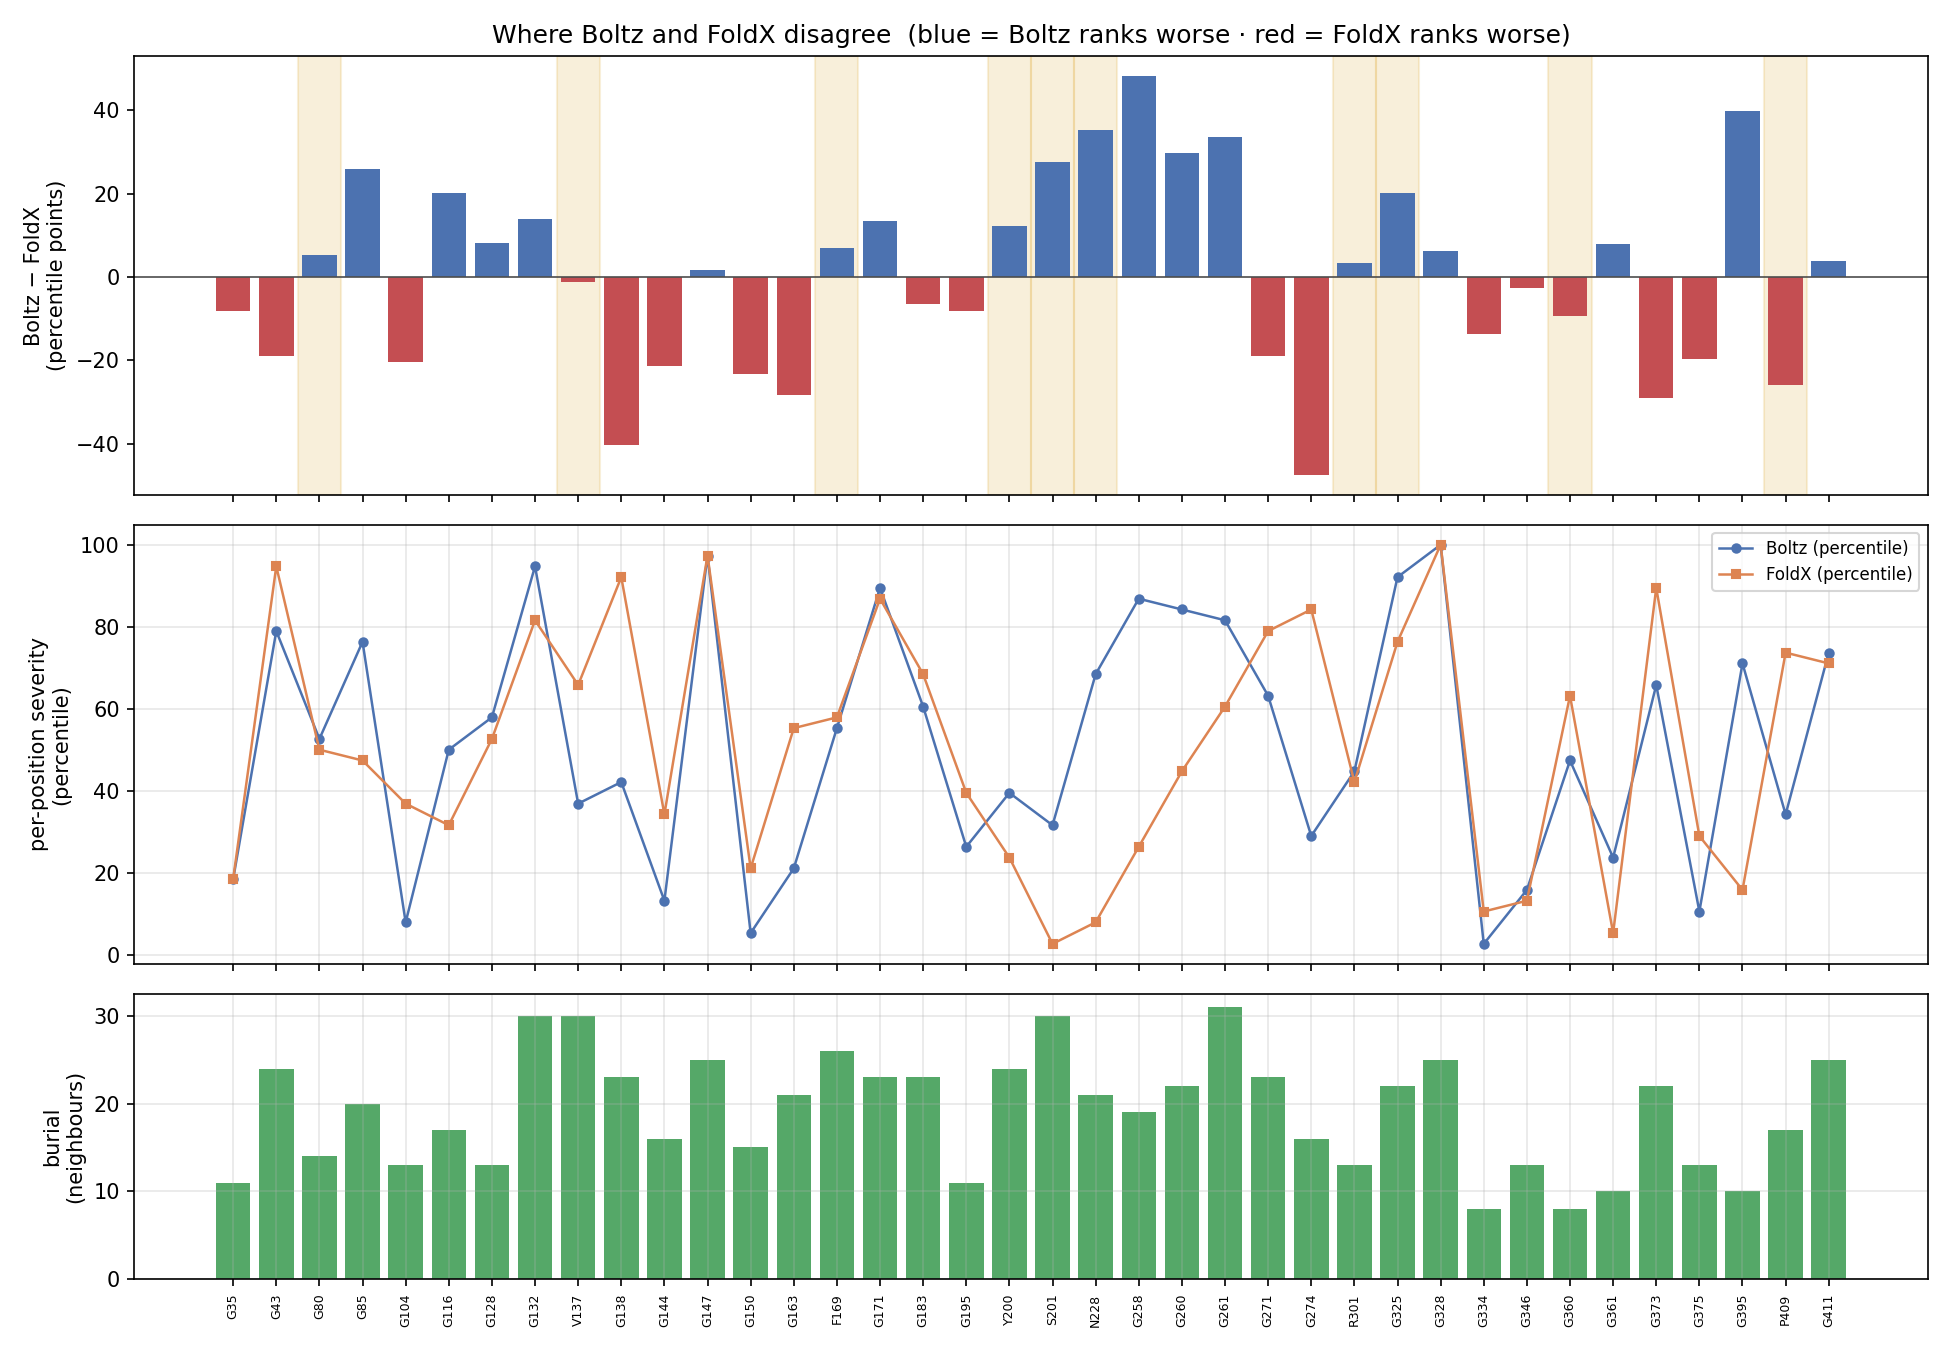
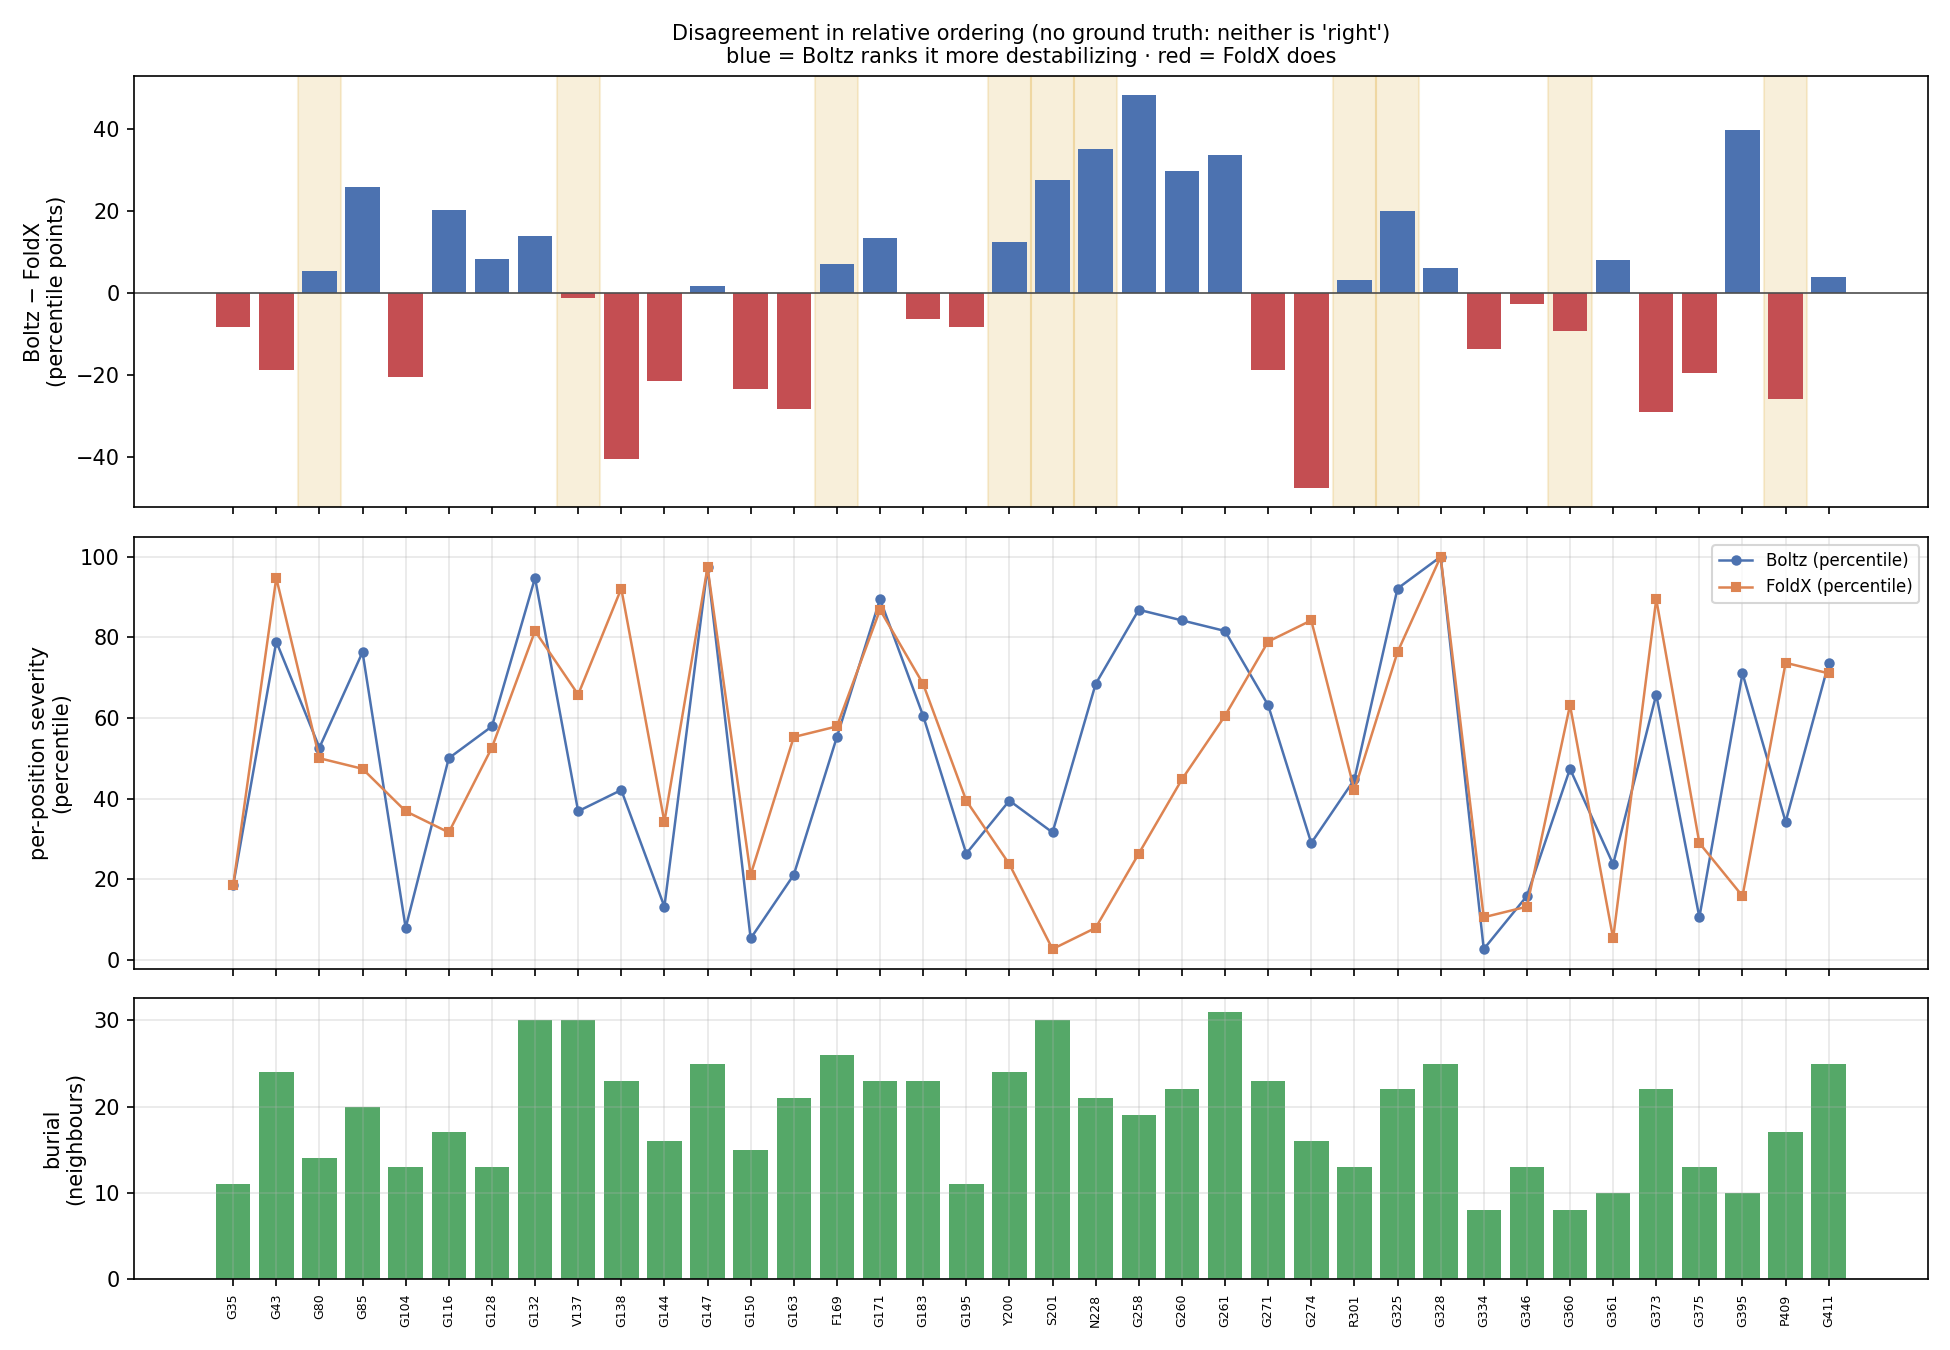
results/10: correct discrepancy wording — disagreement in ordering, not accuracy

diff --git a/results/10_gla_scan/map_discrepancy.py b/results/10_gla_scan/map_discrepancy.py
@@ -9,6 +9,14 @@ converted to a **percentile rank** over the scanned mutations, and the discrepan
     > 0  Boltz ranks it MORE destabilizing than FoldX does
     < 0  FoldX ranks it more destabilizing (its clash regime)
 
+This is a DISAGREEMENT measure between two predictors, not an accuracy measure: there
+is no measured ddG for this protein (see status.md), so neither method is arbitrated.
+Two limits of the metric are worth keeping in view: the percentiles are relative to
+THIS scanned set (31 of 38 positions are glycines, so it is not a neutral reference),
+and rank-normalising both methods removes any disagreement about distribution by
+construction -- including the large scale mismatch (regression slope Boltz~FoldX
+= 0.08), which this metric cannot see.
+
 Per position we report mean signed delta (direction of disagreement) and mean |delta|
 (magnitude), then relate them to structure: burial, secondary structure, and distance
 to the catalytic Asp pair (D170 nucleophile / D231 acid-base).
@@ -94,7 +102,11 @@ def main():
     per = per.sort_values("delta_mean")
 
     print("=== where the two methods disagree most (percentile points) ===")
-    print("  delta<0: FoldX calls it worse   delta>0: Boltz calls it worse\n")
+    print("  delta = pct(Boltz) - pct(FoldX), each ranked within ITS OWN spread over")
+    print("  these mutations. It measures DISAGREEMENT IN RELATIVE ORDERING between two")
+    print("  predictors -- with no ground truth, it says nothing about which is correct.")
+    print("  delta<0: FoldX ranks it more destabilizing")
+    print("  delta>0: Boltz ranks it more destabilizing\n")
     print(f"  {'pos':>4} {'wt':>2} {'ss':>2} {'nbr':>4} {'dAct':>6} "
           f"{'delta':>7} {'|delta|':>8} {'Boltz':>7} {'FoldX':>7}")
     for r in per.itertuples(index=False):
@@ -153,8 +165,9 @@ def _figure(m, per, path):
     a.bar(x, o.delta_mean, color=["#C44E52" if v < 0 else "#4C72B0" for v in o.delta_mean])
     a.axhline(0, color="0.3", lw=0.8)
     a.set_ylabel("Boltz − FoldX\n(percentile points)")
-    a.set_title("Where Boltz and FoldX disagree  "
-                "(blue = Boltz ranks worse · red = FoldX ranks worse)")
+    a.set_title("Disagreement in relative ordering (no ground truth: neither is 'right')\n"
+                "blue = Boltz ranks it more destabilizing · red = FoldX does",
+                fontsize=10)
     for i, r in enumerate(o.itertuples(index=False)):
         if r.flagged:
             a.axvspan(i-.5, i+.5, color="#DDAA33", alpha=.18, zorder=0)

diff --git a/results/10_gla_scan/status.md b/results/10_gla_scan/status.md
@@ -280,3 +280,25 @@ clean subset the scale mismatch is stark: **regression slope Boltz~FoldX = 0.08*
 Its reliable regime is where the two methods agree *least*, and its unreliable regime
 is where the apparent correlation comes from. Ground truth has to come from measured
 ΔΔG on other proteins (results/09 corpora), not from FoldX here.
+
+### 2026-08-25 — terminology correction on the discrepancy map
+
+The discrepancy metric was described as one method "ranking worse" than the other.
+**Corrected to "ranks more destabilizing"** in `map_discrepancy.py`, its printed output
+and the figure title. `delta = pct(Boltz) − pct(FoldX)` measures **disagreement in
+relative ordering between two predictors**; with no measured ΔΔG for GLA it cannot say
+which is correct, and "worse" invited reading it as an accuracy claim.
+
+Two limits of the metric, now documented in the script:
+- Percentiles are computed **within this scanned set**, of which 31/38 positions are
+  glycines — not a neutral reference population.
+- Rank-normalising both methods **removes disagreement about distribution by
+  construction**, concentrating everything into ordering. It therefore cannot see the
+  scale mismatch (regression slope Boltz~FoldX = 0.08), which is arguably the largest
+  real difference between them.
+
+The closest thing to arbitration available is the **asymmetric mechanistic prior**:
+where FoldX is in its clash regime (buried Gly + rigid backbone, established from the
+literature and confirmed on 1R46) there is independent reason to distrust it; where
+Boltz is the harsher one at exposed sites, there is no such argument and the
+disagreement is genuinely unresolved.
